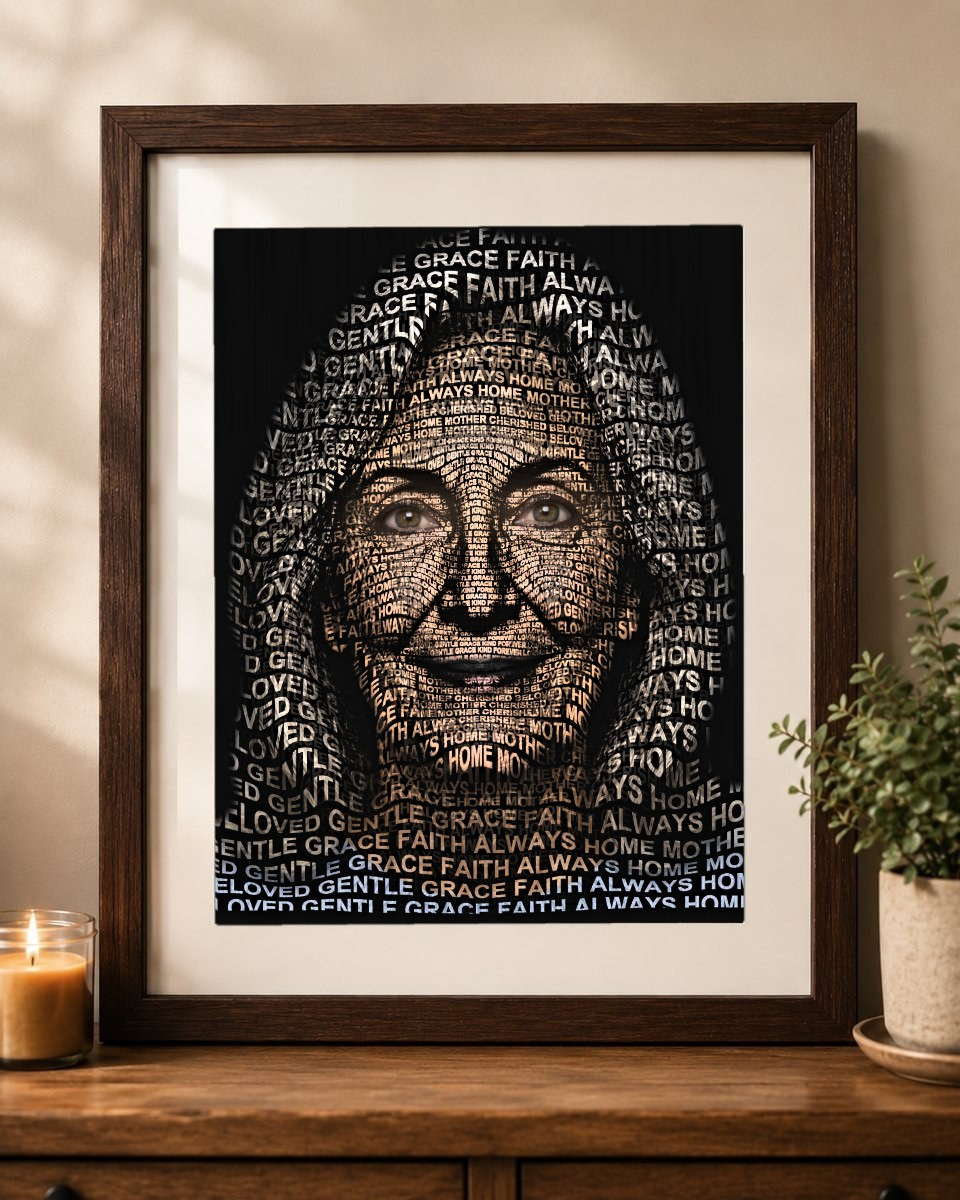
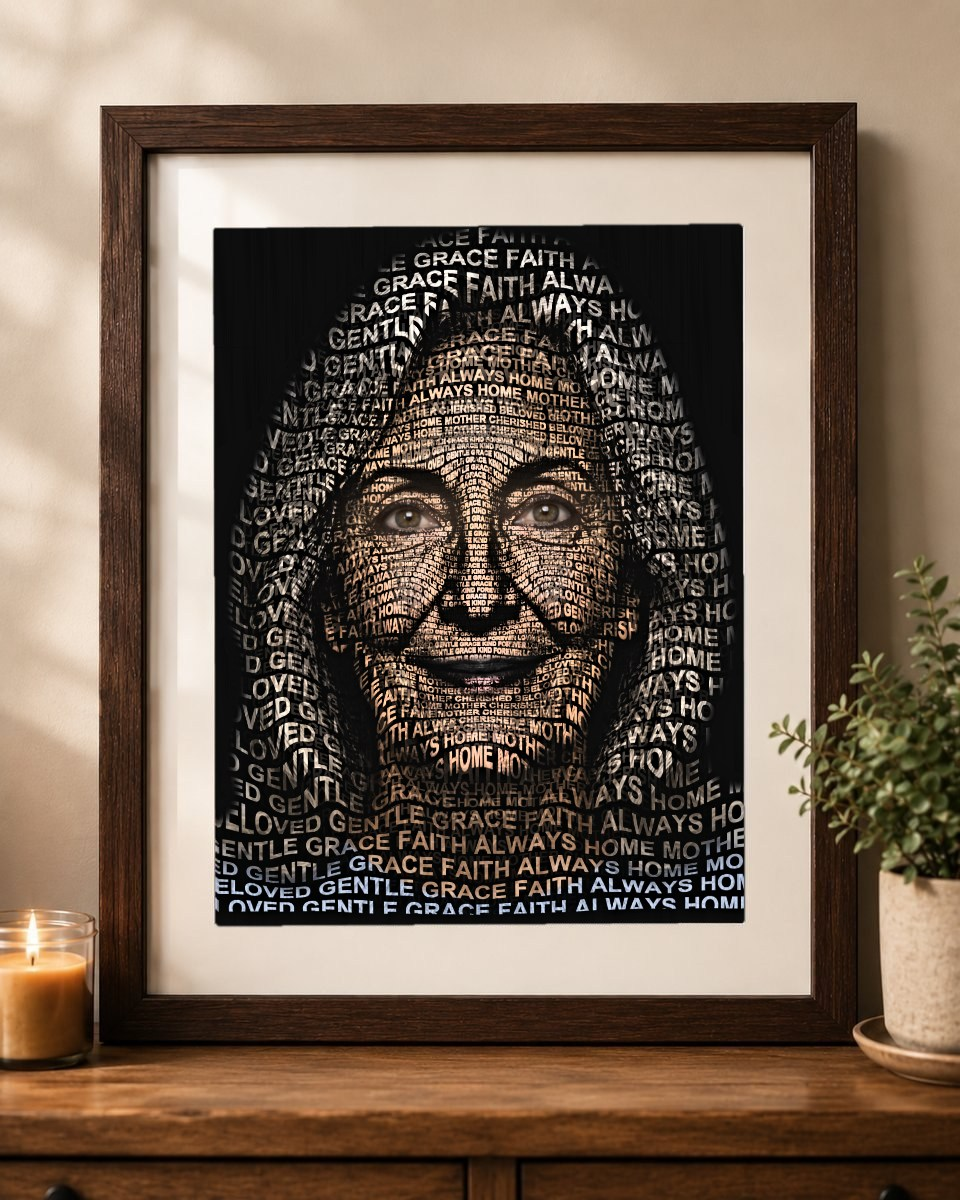
Marketing (typortrait.com): re-render all showcases through the current engine
The generic typortrait.com page still showed pre-eye-fix renders (synthetic glassy
eyes -- most visible on the "Real families" testimonials). Re-render every showcase
through the current Sculpt engine: hero, the three "one photo, every look" samples,
the three use-case portraits + their framed room mockups, and both testimonials
(grandma/poppy). Eyes now use the real-eye composite (no synthetic glow); the
grandma's closed-eye laugh correctly renders as words. Swapped the _*-new.png
renders into the live .jpg names; cache-bust v4 -> v5. (Poppy's source is only
457px, so that one stays soft -- a source limit, but no longer synthetic.)

Changed region(s): [[0.2188, 0.185, 0.7812, 0.7708]]

diff --git a/typography_engine/marketing/_deploy/index.html b/typography_engine/marketing/_deploy/index.html
@@ -12,7 +12,7 @@
 <meta name="robots" content="index,follow" />
 <meta name="p:domain_verify" content="f1db28b51e8847f102c978992b645d49"/>
 <meta name="theme-color" content="#faf9f7" />
-<link rel="preload" as="image" href="/hero-after.jpg?v=4" fetchpriority="high" />
+<link rel="preload" as="image" href="/hero-after.jpg?v=5" fetchpriority="high" />
 <link rel="icon" href="/favicon.ico" sizes="any" />
 <link rel="icon" type="image/png" sizes="32x32" href="/favicon-32.png" />
 <link rel="apple-touch-icon" href="/apple-touch-icon.png" />
@@ -265,7 +265,7 @@ footer a:hover{color:#fff}
 
       <figure class="hero-ba">
         <div class="ba-frame" id="baFrame" tabindex="0" role="slider" aria-label="Before and after — drag or use arrow keys to compare the photo with the Typortrait" aria-orientation="horizontal" aria-valuemin="0" aria-valuemax="100" aria-valuenow="50">
-          <img class="ba-after" id="baAfter" src="/hero-after.jpg?v=4" width="1100" height="1100" fetchpriority="high" decoding="async" alt="A Typortrait portrait composed entirely from the words below" />
+          <img class="ba-after" id="baAfter" src="/hero-after.jpg?v=5" width="1100" height="1100" fetchpriority="high" decoding="async" alt="A Typortrait portrait composed entirely from the words below" />
           <div class="ba-before-wrap" id="baBeforeWrap"><img class="ba-before" id="baBefore" src="/hero-before.jpg" width="1100" height="1100" fetchpriority="high" decoding="async" alt="The original photo, before Typortrait" /></div>
           <div class="ba-divider" id="baDivider"><span class="ba-knob">&#8596;</span></div>
           <span class="ba-tag ba-tag-l">Photo</span>
@@ -313,9 +313,9 @@ footer a:hover{color:#fff}
       <h2 class="statement">One photo, every look.</h2>
       <p class="support">The same face, a few different styles — for anniversaries, memorials, weddings, birthdays and more.</p>
       <div class="cards">
-        <figure class="shot"><button type="button" class="shot-btn js-zoom" data-full="/sample-1.jpg?v=4" aria-label="Enlarge sample — Navy, Sculpt style"><img src="/sample-1.jpg?v=4" width="720" height="720" loading="lazy" alt="Typortrait Sculpt portrait — navy, photographic word colour" /></button><figcaption>Navy &middot; Sculpt</figcaption></figure>
-        <figure class="shot"><button type="button" class="shot-btn js-zoom" data-full="/sample-2.jpg?v=4" aria-label="Enlarge sample — Ivory, Sculpt style"><img src="/sample-2.jpg?v=4" width="720" height="720" loading="lazy" alt="Typortrait Sculpt portrait — ivory ink-drawing on warm paper" /></button><figcaption>Ivory &middot; Sculpt</figcaption></figure>
-        <figure class="shot"><button type="button" class="shot-btn js-zoom" data-full="/sample-3.jpg?v=4" aria-label="Enlarge sample — Ember, Sculpt style"><img src="/sample-3.jpg?v=4" width="720" height="720" loading="lazy" alt="Typortrait Sculpt portrait — gold words on black" /></button><figcaption>Ember &middot; Sculpt</figcaption></figure>
+        <figure class="shot"><button type="button" class="shot-btn js-zoom" data-full="/sample-1.jpg?v=5" aria-label="Enlarge sample — Navy, Sculpt style"><img src="/sample-1.jpg?v=5" width="720" height="720" loading="lazy" alt="Typortrait Sculpt portrait — navy, photographic word colour" /></button><figcaption>Navy &middot; Sculpt</figcaption></figure>
+        <figure class="shot"><button type="button" class="shot-btn js-zoom" data-full="/sample-2.jpg?v=5" aria-label="Enlarge sample — Ivory, Sculpt style"><img src="/sample-2.jpg?v=5" width="720" height="720" loading="lazy" alt="Typortrait Sculpt portrait — ivory ink-drawing on warm paper" /></button><figcaption>Ivory &middot; Sculpt</figcaption></figure>
+        <figure class="shot"><button type="button" class="shot-btn js-zoom" data-full="/sample-3.jpg?v=5" aria-label="Enlarge sample — Ember, Sculpt style"><img src="/sample-3.jpg?v=5" width="720" height="720" loading="lazy" alt="Typortrait Sculpt portrait — gold words on black" /></button><figcaption>Ember &middot; Sculpt</figcaption></figure>
       </div>
       <div class="actions" style="margin-top:40px"><a class="button" href="https://app.typortrait.com">Make one like this</a></div>
     </div>
@@ -328,22 +328,22 @@ footer a:hover{color:#fff}
       <p class="support">A keepsake built from the words that define someone — for the people and milestones you’ll never forget.</p>
       <div class="cards">
         <article class="use-card">
-          <button type="button" class="use-shot js-zoom" data-full="/use-children.jpg?v=4" aria-label="Enlarge a Children word-art portrait">
-            <img src="/use-children.jpg?v=4" width="720" height="720" loading="lazy" alt="Typortrait word-art portrait of a child" onerror="this.closest('.use-shot').classList.add('noimg')" />
+          <button type="button" class="use-shot js-zoom" data-full="/use-children.jpg?v=5" aria-label="Enlarge a Children word-art portrait">
+            <img src="/use-children.jpg?v=5" width="720" height="720" loading="lazy" alt="Typortrait word-art portrait of a child" onerror="this.closest('.use-shot').classList.add('noimg')" />
             <span class="ph"><b>Children render</b>use-children.jpg</span>
           </button>
           <div class="use-body"><h3>Children</h3><p>Capture their sweetness, spirit and personality in the words you’d use to describe them.</p></div>
         </article>
         <article class="use-card">
-          <button type="button" class="use-shot js-zoom" data-full="/use-memorial.jpg?v=4" aria-label="Enlarge a Memorial word-art portrait">
-            <img src="/use-memorial.jpg?v=4" width="720" height="720" loading="lazy" alt="Typortrait word-art memorial portrait" onerror="this.closest('.use-shot').classList.add('noimg')" />
+          <button type="button" class="use-shot js-zoom" data-full="/use-memorial.jpg?v=5" aria-label="Enlarge a Memorial word-art portrait">
+            <img src="/use-memorial.jpg?v=5" width="720" height="720" loading="lazy" alt="Typortrait word-art memorial portrait" onerror="this.closest('.use-shot').classList.add('noimg')" />
             <span class="ph"><b>Memorial render</b>use-memorial.jpg</span>
           </button>
           <div class="use-body"><h3>Memorials</h3><p>Honor someone special with the words that shaped their life — a portrait that speaks.</p></div>
         </article>
         <article class="use-card">
-          <button type="button" class="use-shot js-zoom" data-full="/use-graduate.jpg?v=4" aria-label="Enlarge a Graduate word-art portrait">
-            <img src="/use-graduate.jpg?v=4" width="720" height="720" loading="lazy" alt="Typortrait word-art portrait of a graduate" onerror="this.closest('.use-shot').classList.add('noimg')" />
+          <button type="button" class="use-shot js-zoom" data-full="/use-graduate.jpg?v=5" aria-label="Enlarge a Graduate word-art portrait">
+            <img src="/use-graduate.jpg?v=5" width="720" height="720" loading="lazy" alt="Typortrait word-art portrait of a graduate" onerror="this.closest('.use-shot').classList.add('noimg')" />
             <span class="ph"><b>Graduate render</b>use-graduate.jpg</span>
           </button>
           <div class="use-body"><h3>Graduates</h3><p>A personal gift that celebrates who they are and who they’re becoming.</p></div>
@@ -359,22 +359,22 @@ footer a:hover{color:#fff}
       <p class="support">Order your portrait as a framed print, gallery canvas, poster or tee — printed and shipped worldwide, from $15.</p>
       <div class="cards">
         <article class="use-card">
-          <button type="button" class="use-shot print-shot js-zoom" data-full="/mock-children.jpg?v=4" aria-label="Enlarge a framed Children word-art print">
-            <img src="/mock-children.jpg?v=4" width="900" height="1125" loading="lazy" alt="Framed word-art portrait of a child, matted in a light-oak frame on a wall" onerror="this.closest('.use-shot').classList.add('noimg')" />
+          <button type="button" class="use-shot print-shot js-zoom" data-full="/mock-children.jpg?v=5" aria-label="Enlarge a framed Children word-art print">
+            <img src="/mock-children.jpg?v=5" width="900" height="1125" loading="lazy" alt="Framed word-art portrait of a child, matted in a light-oak frame on a wall" onerror="this.closest('.use-shot').classList.add('noimg')" />
             <span class="ph"><b>Children mockup</b>mock-children.jpg</span>
           </button>
           <div class="use-body"><h3>Children</h3><p class="words">Words like <b>joy &middot; brave &middot; curious &middot; sunshine &middot; silly &middot; loved</b></p></div>
         </article>
         <article class="use-card">
-          <button type="button" class="use-shot print-shot js-zoom" data-full="/mock-memorial.jpg?v=4" aria-label="Enlarge a framed Memorial word-art print">
-            <img src="/mock-memorial.jpg?v=4" width="900" height="1125" loading="lazy" alt="Framed word-art memorial portrait, matted in a walnut frame on a console" onerror="this.closest('.use-shot').classList.add('noimg')" />
+          <button type="button" class="use-shot print-shot js-zoom" data-full="/mock-memorial.jpg?v=5" aria-label="Enlarge a framed Memorial word-art print">
+            <img src="/mock-memorial.jpg?v=5" width="900" height="1125" loading="lazy" alt="Framed word-art memorial portrait, matted in a walnut frame on a console" onerror="this.closest('.use-shot').classList.add('noimg')" />
             <span class="ph"><b>Memorial mockup</b>mock-memorial.jpg</span>
           </button>
           <div class="use-body"><h3>Memorials</h3><p class="words">Words like <b>beloved &middot; gentle &middot; grace &middot; faith &middot; always &middot; home</b></p></div>
         </article>
         <article class="use-card">
-          <button type="button" class="use-shot print-shot js-zoom" data-full="/mock-graduate.jpg?v=4" aria-label="Enlarge a framed Graduate word-art print">
-            <img src="/mock-graduate.jpg?v=4" width="900" height="1125" loading="lazy" alt="Framed word-art portrait of a graduate, matted in a black frame on a desk" onerror="this.closest('.use-shot').classList.add('noimg')" />
+          <button type="button" class="use-shot print-shot js-zoom" data-full="/mock-graduate.jpg?v=5" aria-label="Enlarge a framed Graduate word-art print">
+            <img src="/mock-graduate.jpg?v=5" width="900" height="1125" loading="lazy" alt="Framed word-art portrait of a graduate, matted in a black frame on a desk" onerror="this.closest('.use-shot').classList.add('noimg')" />
             <span class="ph"><b>Graduate mockup</b>mock-graduate.jpg</span>
           </button>
           <div class="use-body"><h3>Graduates</h3><p class="words">Words like <b>dream &middot; ambition &middot; future &middot; bold &middot; ready &middot; achieve</b></p></div>
@@ -407,7 +407,7 @@ footer a:hover{color:#fff}
       <div class="tstx-grid">
         <figure class="tstx-card">
           <div class="tba" style="--p:55%">
-            <img class="tba-after" src="/tst-grandma-after.jpg?v=4" width="880" height="1100" loading="lazy" alt="A Lifelike word-portrait of a grandmother, made from the words that describe her" />
+            <img class="tba-after" src="/tst-grandma-after.jpg?v=5" width="880" height="1100" loading="lazy" alt="A Lifelike word-portrait of a grandmother, made from the words that describe her" />
             <div class="tba-before"><img src="/tst-grandma-before.jpg" width="880" height="1100" loading="lazy" alt="The original photo of a grandmother" /></div>
             <span class="tba-tag l">Photo</span><span class="tba-tag r">In words</span>
             <div class="tba-line"></div><div class="tba-grip">&#8596;</div>
@@ -419,7 +419,7 @@ footer a:hover{color:#fff}
         </figure>
         <figure class="tstx-card">
           <div class="tba" style="--p:55%">
-            <img class="tba-after" src="/tst-poppy-after.jpg?v=4" width="880" height="1100" loading="lazy" alt="A Lifelike word-portrait of a grandfather, made from the words that describe him" />
+            <img class="tba-after" src="/tst-poppy-after.jpg?v=5" width="880" height="1100" loading="lazy" alt="A Lifelike word-portrait of a grandfather, made from the words that describe him" />
             <div class="tba-before"><img src="/tst-poppy-before.jpg" width="880" height="1100" loading="lazy" alt="The original photo of a grandfather" /></div>
             <span class="tba-tag l">Photo</span><span class="tba-tag r">In words</span>
             <div class="tba-line"></div><div class="tba-grip">&#8596;</div>
